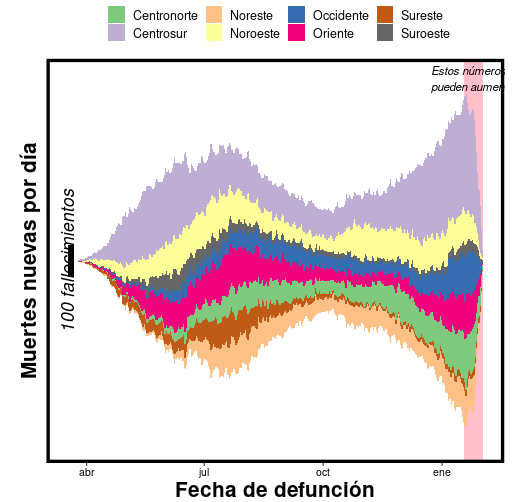
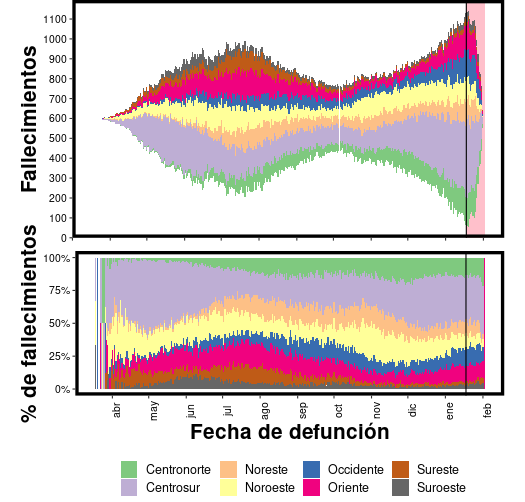
Texto y muertes por región

diff --git a/etiquetas/serie_tiempo/index.html b/etiquetas/serie_tiempo/index.html
@@ -478,8 +478,8 @@
           <div class="col-12 col-md-6 my-auto my-auto">
             <h3>La epidemia se mueve al interior del país</h3>
             <p class="lead">
-              <p>Esta gráfica muestra el número de fallecimientos confirmados por COVID-19 en el país que corresponden al <a href="../../municipios#vm_casos">Valle de México</a>, <a href="../../municipios#top_zm_casos">otras</a> <a href="../../municipios#top_zm_casos2">zonas</a> <a href="../../municipios#top_zm_casos3">metropolitanas</a>, y zonas no metropolitanas. Los fallecimientos empezaron a disminuir desde finales de julio, un par de semanas después de que los <a href="../../casos#sir">casos confirmados</a> empezaran a disminuir.</p>
-<p>La distribución geográfica de la epidemia ha <a href="../../muertes#muertes_region">cambiado con el tiempo</a>. El Valle de México concentró la mayor cantidad de fallecimientos al inicio de la epidemia que posteriormente se extendió al interior del país.</p>
+              <p>Esta gráfica muestra el número de fallecimientos confirmados por COVID-19 en el país que corresponden al <a href="../../municipios#vm_casos">Valle de México</a>, <a href="../../municipios#top_zm_casos">otras</a> <a href="../../municipios#top_zm_casos2">zonas</a> <a href="../../municipios#top_zm_casos3">metropolitanas</a>, y zonas no metropolitanas. Los fallecimientos continúan a la alza a nivel nacional.</p>
+<p>Al principio de la segunda "ola" la mayoría de los nuevos fallecimientos se concentraron en el Valle de México, y aunque las defunciones continúan aumentando, parecen hacerlo más lentamente en días recientes. Lamentablemente, las defunciones en otras zonas metropolitanas aumentan cada vez con mayor rapidez lo que mantiene la tendencia nacional. Probablemente veremos un cambio en la distribución geográfica de la epidemia en las próximas semanas al igual que ocurrió con la <a href="../../muertes#muertes_region">primera "ola"</a>.</p>
 <p>Los fallecimientos confirmados no son la unica consecuencia mortal de la epidemia. El <a href="../../muertes#exceso_mortalidad_nacional">exceso de mortalidad</a> puede usarse para medir las consecuencias directas e indirectas del COVID-19.</p>
             </p>
               
@@ -575,10 +575,10 @@
             />
           </div>
           <div class="col-12 col-md-6 my-auto my-auto">
-            <h3>La epidemia se desacelera en el Valle de México</h3>
+            <h3>El Valle de México sigue en un momento crítico</h3>
             <p class="lead">
               <p>La zona metropolitana del Valle de México ha sido por mucho la región más afectada del país, acumulando alrededor de un tercio de los casos confirmados. Esta gráfica muestra los casos de acuerdo la fecha en que mostraron síntomas. Debido a que los casos nuevos se detectan con un <a href="../../clinicos#tiempo_deteccion">retraso típico de 11 días</a>, sólo podemos estar razonablemente seguros del número de casos hace unas dos semanas</p>
-<p>El número de casos nuevos comenzó a estabilizarse alrededor del 15 de mayo, y parece haber empezado a descender en la segunda semana de junio. Por otro lado, los fallecimientos <a href="../../muertes#muertes_tipomun">se mantienen estables</a>. En conjunto esto sugiere que la epidemia ya no está creciendo en esta metrópolis, pero el riesgo sigue siendo de los más altos del país, y <a href="../../municipios#top_zm_casos">otras ciudades</a> han mostrado rebrotes.</p>
+<p>El número de casos se ha mostrado un ligero descenso en los últimos días, pero la tendencia a mediano plazo sigue siendo a la alza, mientras que las defunciones <a href="../../muertes#muertes_tipomun">continúan en aumento</a>. El riesgo sigue siendo de los más altos del país, y <a href="../../municipios#top_zm_casos">otras ciudades</a> han mostrado rebrotes.</p>
 <p>Otras <a href="../../municipios#top_zm_casos">zonas</a> <a href="../../municipios#top_zm_casos2">metropolitanas</a> <a href="../../municipios#top_zm_casos3">también</a> han sido afectadas</p>
             </p>
               
@@ -953,11 +953,11 @@ La <a href="../../estados#r_efectiva">R efectiva</a> en cada entidad.</p>
             />
           </div>
           <div class="col-12 col-md-6 my-auto my-auto">
-            <h3>Muertes confirmadas en México</h3>
+            <h3>La segunda ola es diferente</h3>
             <p class="lead">
-              <p>Esta gráfica muestra el número de defunciones confirmadas por COVID-19 en cada una de las ocho <a href="https://es.wikipedia.org/wiki/Anexo:Zonas_económicas_de_México" target="_blank">regiones geográficas</a> del país.</p>
-<p>Los fallecimientos se han distribuido a lo largo del país, pero las regiones Centrosur, Noroeste y Suroeste han sido las más golpeadas. Al igual que con los <a href="../../casos#nacional_sintomas">casos</a>, hay un <a href="../../clinicos#tiempo_deteccion">retraso</a> en la detección de fallecimientos así que es probable que los números en los días recientes aumenten.</p>
-<p>La gráfica muestra que, si bien la epidemia va en descenso, ésta se encuentra generalizada en todo el país. Esto significa que <a href="../../clinicos#riesgos_relativos">todos estamos en riesgo</a> y es consistente con el gran número de <a href="../../municipios#n_municipios">municipios que reportan casos</a>.</p>
+              <p>Cada <a href="https://es.wikipedia.org/wiki/Anexo:Zonas_económicas_de_México" target="_blank">región geográfica</a> del país ha sido afectada de manera diferente y en diferentes momentos.</p>
+<p>La primera "ola" inició en la zona Centrosur, que incluye al <a href="../../municipios#vm_casos">Valle de México</a>, y llegó relativamente tarde a las regiones Centronorte, Noreste y Occidente, pero estas regiones nunca lograron salir de esta primera "ola" antes de la segunda. Por otro lado las regiones Sureste y Suroeste fueron afectadas el verano pasado y, hasta el momento, no han sido afectadas tan gravemente por la segunda "ola", aunque esto siempre puede cambiar.</p>
+<p>De cualquier forma, está claro que hay un incremento generalizado en el número de defunciones a lo largo del país, y todavía no vemos señales de descenso.</p>
             </p>
               
           </div>

diff --git a/secciones/principal/index.html b/secciones/principal/index.html
@@ -432,8 +432,8 @@
           <div class="col-12 col-md-6 my-auto my-auto">
             <h3>La epidemia se mueve al interior del país</h3>
             <p class="lead">
-              <p>Esta gráfica muestra el número de fallecimientos confirmados por COVID-19 en el país que corresponden al <a href="../../municipios#vm_casos">Valle de México</a>, <a href="../../municipios#top_zm_casos">otras</a> <a href="../../municipios#top_zm_casos2">zonas</a> <a href="../../municipios#top_zm_casos3">metropolitanas</a>, y zonas no metropolitanas. Los fallecimientos empezaron a disminuir desde finales de julio, un par de semanas después de que los <a href="../../casos#sir">casos confirmados</a> empezaran a disminuir.</p>
-<p>La distribución geográfica de la epidemia ha <a href="../../muertes#muertes_region">cambiado con el tiempo</a>. El Valle de México concentró la mayor cantidad de fallecimientos al inicio de la epidemia que posteriormente se extendió al interior del país.</p>
+              <p>Esta gráfica muestra el número de fallecimientos confirmados por COVID-19 en el país que corresponden al <a href="../../municipios#vm_casos">Valle de México</a>, <a href="../../municipios#top_zm_casos">otras</a> <a href="../../municipios#top_zm_casos2">zonas</a> <a href="../../municipios#top_zm_casos3">metropolitanas</a>, y zonas no metropolitanas. Los fallecimientos continúan a la alza a nivel nacional.</p>
+<p>Al principio de la segunda "ola" la mayoría de los nuevos fallecimientos se concentraron en el Valle de México, y aunque las defunciones continúan aumentando, parecen hacerlo más lentamente en días recientes. Lamentablemente, las defunciones en otras zonas metropolitanas aumentan cada vez con mayor rapidez lo que mantiene la tendencia nacional. Probablemente veremos un cambio en la distribución geográfica de la epidemia en las próximas semanas al igual que ocurrió con la <a href="../../muertes#muertes_region">primera "ola"</a>.</p>
 <p>Los fallecimientos confirmados no son la unica consecuencia mortal de la epidemia. El <a href="../../muertes#exceso_mortalidad_nacional">exceso de mortalidad</a> puede usarse para medir las consecuencias directas e indirectas del COVID-19.</p>
             </p>
               
@@ -557,11 +557,11 @@ La <a href="../../estados#r_efectiva">R efectiva</a> en cada entidad.</p>
             />
           </div>
           <div class="col-12 col-md-6 my-auto my-auto">
-            <h3>Muertes confirmadas en México</h3>
+            <h3>La segunda ola es diferente</h3>
             <p class="lead">
-              <p>Esta gráfica muestra el número de defunciones confirmadas por COVID-19 en cada una de las ocho <a href="https://es.wikipedia.org/wiki/Anexo:Zonas_económicas_de_México" target="_blank">regiones geográficas</a> del país.</p>
-<p>Los fallecimientos se han distribuido a lo largo del país, pero las regiones Centrosur, Noroeste y Suroeste han sido las más golpeadas. Al igual que con los <a href="../../casos#nacional_sintomas">casos</a>, hay un <a href="../../clinicos#tiempo_deteccion">retraso</a> en la detección de fallecimientos así que es probable que los números en los días recientes aumenten.</p>
-<p>La gráfica muestra que, si bien la epidemia va en descenso, ésta se encuentra generalizada en todo el país. Esto significa que <a href="../../clinicos#riesgos_relativos">todos estamos en riesgo</a> y es consistente con el gran número de <a href="../../municipios#n_municipios">municipios que reportan casos</a>.</p>
+              <p>Cada <a href="https://es.wikipedia.org/wiki/Anexo:Zonas_económicas_de_México" target="_blank">región geográfica</a> del país ha sido afectada de manera diferente y en diferentes momentos.</p>
+<p>La primera "ola" inició en la zona Centrosur, que incluye al <a href="../../municipios#vm_casos">Valle de México</a>, y llegó relativamente tarde a las regiones Centronorte, Noreste y Occidente, pero estas regiones nunca lograron salir de esta primera "ola" antes de la segunda. Por otro lado las regiones Sureste y Suroeste fueron afectadas el verano pasado y, hasta el momento, no han sido afectadas tan gravemente por la segunda "ola", aunque esto siempre puede cambiar.</p>
+<p>De cualquier forma, está claro que hay un incremento generalizado en el número de defunciones a lo largo del país, y todavía no vemos señales de descenso.</p>
             </p>
               
           </div>

diff --git a/etiquetas/muertes/index.html b/etiquetas/muertes/index.html
@@ -431,8 +431,8 @@
           <div class="col-12 col-md-6 my-auto my-auto">
             <h3>La epidemia se mueve al interior del país</h3>
             <p class="lead">
-              <p>Esta gráfica muestra el número de fallecimientos confirmados por COVID-19 en el país que corresponden al <a href="../../municipios#vm_casos">Valle de México</a>, <a href="../../municipios#top_zm_casos">otras</a> <a href="../../municipios#top_zm_casos2">zonas</a> <a href="../../municipios#top_zm_casos3">metropolitanas</a>, y zonas no metropolitanas. Los fallecimientos empezaron a disminuir desde finales de julio, un par de semanas después de que los <a href="../../casos#sir">casos confirmados</a> empezaran a disminuir.</p>
-<p>La distribución geográfica de la epidemia ha <a href="../../muertes#muertes_region">cambiado con el tiempo</a>. El Valle de México concentró la mayor cantidad de fallecimientos al inicio de la epidemia que posteriormente se extendió al interior del país.</p>
+              <p>Esta gráfica muestra el número de fallecimientos confirmados por COVID-19 en el país que corresponden al <a href="../../municipios#vm_casos">Valle de México</a>, <a href="../../municipios#top_zm_casos">otras</a> <a href="../../municipios#top_zm_casos2">zonas</a> <a href="../../municipios#top_zm_casos3">metropolitanas</a>, y zonas no metropolitanas. Los fallecimientos continúan a la alza a nivel nacional.</p>
+<p>Al principio de la segunda "ola" la mayoría de los nuevos fallecimientos se concentraron en el Valle de México, y aunque las defunciones continúan aumentando, parecen hacerlo más lentamente en días recientes. Lamentablemente, las defunciones en otras zonas metropolitanas aumentan cada vez con mayor rapidez lo que mantiene la tendencia nacional. Probablemente veremos un cambio en la distribución geográfica de la epidemia en las próximas semanas al igual que ocurrió con la <a href="../../muertes#muertes_region">primera "ola"</a>.</p>
 <p>Los fallecimientos confirmados no son la unica consecuencia mortal de la epidemia. El <a href="../../muertes#exceso_mortalidad_nacional">exceso de mortalidad</a> puede usarse para medir las consecuencias directas e indirectas del COVID-19.</p>
             </p>
               
@@ -579,11 +579,11 @@
             />
           </div>
           <div class="col-12 col-md-6 my-auto my-auto">
-            <h3>Muertes confirmadas en México</h3>
+            <h3>La segunda ola es diferente</h3>
             <p class="lead">
-              <p>Esta gráfica muestra el número de defunciones confirmadas por COVID-19 en cada una de las ocho <a href="https://es.wikipedia.org/wiki/Anexo:Zonas_económicas_de_México" target="_blank">regiones geográficas</a> del país.</p>
-<p>Los fallecimientos se han distribuido a lo largo del país, pero las regiones Centrosur, Noroeste y Suroeste han sido las más golpeadas. Al igual que con los <a href="../../casos#nacional_sintomas">casos</a>, hay un <a href="../../clinicos#tiempo_deteccion">retraso</a> en la detección de fallecimientos así que es probable que los números en los días recientes aumenten.</p>
-<p>La gráfica muestra que, si bien la epidemia va en descenso, ésta se encuentra generalizada en todo el país. Esto significa que <a href="../../clinicos#riesgos_relativos">todos estamos en riesgo</a> y es consistente con el gran número de <a href="../../municipios#n_municipios">municipios que reportan casos</a>.</p>
+              <p>Cada <a href="https://es.wikipedia.org/wiki/Anexo:Zonas_económicas_de_México" target="_blank">región geográfica</a> del país ha sido afectada de manera diferente y en diferentes momentos.</p>
+<p>La primera "ola" inició en la zona Centrosur, que incluye al <a href="../../municipios#vm_casos">Valle de México</a>, y llegó relativamente tarde a las regiones Centronorte, Noreste y Occidente, pero estas regiones nunca lograron salir de esta primera "ola" antes de la segunda. Por otro lado las regiones Sureste y Suroeste fueron afectadas el verano pasado y, hasta el momento, no han sido afectadas tan gravemente por la segunda "ola", aunque esto siempre puede cambiar.</p>
+<p>De cualquier forma, está claro que hay un incremento generalizado en el número de defunciones a lo largo del país, y todavía no vemos señales de descenso.</p>
             </p>
               
           </div>

diff --git a/etiquetas/nacional/index.html b/etiquetas/nacional/index.html
@@ -649,8 +649,8 @@
           <div class="col-12 col-md-6 my-auto my-auto">
             <h3>La epidemia se mueve al interior del país</h3>
             <p class="lead">
-              <p>Esta gráfica muestra el número de fallecimientos confirmados por COVID-19 en el país que corresponden al <a href="../../municipios#vm_casos">Valle de México</a>, <a href="../../municipios#top_zm_casos">otras</a> <a href="../../municipios#top_zm_casos2">zonas</a> <a href="../../municipios#top_zm_casos3">metropolitanas</a>, y zonas no metropolitanas. Los fallecimientos empezaron a disminuir desde finales de julio, un par de semanas después de que los <a href="../../casos#sir">casos confirmados</a> empezaran a disminuir.</p>
-<p>La distribución geográfica de la epidemia ha <a href="../../muertes#muertes_region">cambiado con el tiempo</a>. El Valle de México concentró la mayor cantidad de fallecimientos al inicio de la epidemia que posteriormente se extendió al interior del país.</p>
+              <p>Esta gráfica muestra el número de fallecimientos confirmados por COVID-19 en el país que corresponden al <a href="../../municipios#vm_casos">Valle de México</a>, <a href="../../municipios#top_zm_casos">otras</a> <a href="../../municipios#top_zm_casos2">zonas</a> <a href="../../municipios#top_zm_casos3">metropolitanas</a>, y zonas no metropolitanas. Los fallecimientos continúan a la alza a nivel nacional.</p>
+<p>Al principio de la segunda "ola" la mayoría de los nuevos fallecimientos se concentraron en el Valle de México, y aunque las defunciones continúan aumentando, parecen hacerlo más lentamente en días recientes. Lamentablemente, las defunciones en otras zonas metropolitanas aumentan cada vez con mayor rapidez lo que mantiene la tendencia nacional. Probablemente veremos un cambio en la distribución geográfica de la epidemia en las próximas semanas al igual que ocurrió con la <a href="../../muertes#muertes_region">primera "ola"</a>.</p>
 <p>Los fallecimientos confirmados no son la unica consecuencia mortal de la epidemia. El <a href="../../muertes#exceso_mortalidad_nacional">exceso de mortalidad</a> puede usarse para medir las consecuencias directas e indirectas del COVID-19.</p>
             </p>
               
@@ -870,11 +870,11 @@
             />
           </div>
           <div class="col-12 col-md-6 my-auto my-auto">
-            <h3>Muertes confirmadas en México</h3>
+            <h3>La segunda ola es diferente</h3>
             <p class="lead">
-              <p>Esta gráfica muestra el número de defunciones confirmadas por COVID-19 en cada una de las ocho <a href="https://es.wikipedia.org/wiki/Anexo:Zonas_económicas_de_México" target="_blank">regiones geográficas</a> del país.</p>
-<p>Los fallecimientos se han distribuido a lo largo del país, pero las regiones Centrosur, Noroeste y Suroeste han sido las más golpeadas. Al igual que con los <a href="../../casos#nacional_sintomas">casos</a>, hay un <a href="../../clinicos#tiempo_deteccion">retraso</a> en la detección de fallecimientos así que es probable que los números en los días recientes aumenten.</p>
-<p>La gráfica muestra que, si bien la epidemia va en descenso, ésta se encuentra generalizada en todo el país. Esto significa que <a href="../../clinicos#riesgos_relativos">todos estamos en riesgo</a> y es consistente con el gran número de <a href="../../municipios#n_municipios">municipios que reportan casos</a>.</p>
+              <p>Cada <a href="https://es.wikipedia.org/wiki/Anexo:Zonas_económicas_de_México" target="_blank">región geográfica</a> del país ha sido afectada de manera diferente y en diferentes momentos.</p>
+<p>La primera "ola" inició en la zona Centrosur, que incluye al <a href="../../municipios#vm_casos">Valle de México</a>, y llegó relativamente tarde a las regiones Centronorte, Noreste y Occidente, pero estas regiones nunca lograron salir de esta primera "ola" antes de la segunda. Por otro lado las regiones Sureste y Suroeste fueron afectadas el verano pasado y, hasta el momento, no han sido afectadas tan gravemente por la segunda "ola", aunque esto siempre puede cambiar.</p>
+<p>De cualquier forma, está claro que hay un incremento generalizado en el número de defunciones a lo largo del país, y todavía no vemos señales de descenso.</p>
             </p>
               
           </div>

diff --git a/secciones/muertes/index.html b/secciones/muertes/index.html
@@ -357,8 +357,8 @@
           <div class="col-12 col-md-6 my-auto my-auto">
             <h3>La epidemia se mueve al interior del país</h3>
             <p class="lead">
-              <p>Esta gráfica muestra el número de fallecimientos confirmados por COVID-19 en el país que corresponden al <a href="../../municipios#vm_casos">Valle de México</a>, <a href="../../municipios#top_zm_casos">otras</a> <a href="../../municipios#top_zm_casos2">zonas</a> <a href="../../municipios#top_zm_casos3">metropolitanas</a>, y zonas no metropolitanas. Los fallecimientos empezaron a disminuir desde finales de julio, un par de semanas después de que los <a href="../../casos#sir">casos confirmados</a> empezaran a disminuir.</p>
-<p>La distribución geográfica de la epidemia ha <a href="../../muertes#muertes_region">cambiado con el tiempo</a>. El Valle de México concentró la mayor cantidad de fallecimientos al inicio de la epidemia que posteriormente se extendió al interior del país.</p>
+              <p>Esta gráfica muestra el número de fallecimientos confirmados por COVID-19 en el país que corresponden al <a href="../../municipios#vm_casos">Valle de México</a>, <a href="../../municipios#top_zm_casos">otras</a> <a href="../../municipios#top_zm_casos2">zonas</a> <a href="../../municipios#top_zm_casos3">metropolitanas</a>, y zonas no metropolitanas. Los fallecimientos continúan a la alza a nivel nacional.</p>
+<p>Al principio de la segunda "ola" la mayoría de los nuevos fallecimientos se concentraron en el Valle de México, y aunque las defunciones continúan aumentando, parecen hacerlo más lentamente en días recientes. Lamentablemente, las defunciones en otras zonas metropolitanas aumentan cada vez con mayor rapidez lo que mantiene la tendencia nacional. Probablemente veremos un cambio en la distribución geográfica de la epidemia en las próximas semanas al igual que ocurrió con la <a href="../../muertes#muertes_region">primera "ola"</a>.</p>
 <p>Los fallecimientos confirmados no son la unica consecuencia mortal de la epidemia. El <a href="../../muertes#exceso_mortalidad_nacional">exceso de mortalidad</a> puede usarse para medir las consecuencias directas e indirectas del COVID-19.</p>
             </p>
               
@@ -505,11 +505,11 @@
             />
           </div>
           <div class="col-12 col-md-6 my-auto my-auto">
-            <h3>Muertes confirmadas en México</h3>
+            <h3>La segunda ola es diferente</h3>
             <p class="lead">
-              <p>Esta gráfica muestra el número de defunciones confirmadas por COVID-19 en cada una de las ocho <a href="https://es.wikipedia.org/wiki/Anexo:Zonas_económicas_de_México" target="_blank">regiones geográficas</a> del país.</p>
-<p>Los fallecimientos se han distribuido a lo largo del país, pero las regiones Centrosur, Noroeste y Suroeste han sido las más golpeadas. Al igual que con los <a href="../../casos#nacional_sintomas">casos</a>, hay un <a href="../../clinicos#tiempo_deteccion">retraso</a> en la detección de fallecimientos así que es probable que los números en los días recientes aumenten.</p>
-<p>La gráfica muestra que, si bien la epidemia va en descenso, ésta se encuentra generalizada en todo el país. Esto significa que <a href="../../clinicos#riesgos_relativos">todos estamos en riesgo</a> y es consistente con el gran número de <a href="../../municipios#n_municipios">municipios que reportan casos</a>.</p>
+              <p>Cada <a href="https://es.wikipedia.org/wiki/Anexo:Zonas_económicas_de_México" target="_blank">región geográfica</a> del país ha sido afectada de manera diferente y en diferentes momentos.</p>
+<p>La primera "ola" inició en la zona Centrosur, que incluye al <a href="../../municipios#vm_casos">Valle de México</a>, y llegó relativamente tarde a las regiones Centronorte, Noreste y Occidente, pero estas regiones nunca lograron salir de esta primera "ola" antes de la segunda. Por otro lado las regiones Sureste y Suroeste fueron afectadas el verano pasado y, hasta el momento, no han sido afectadas tan gravemente por la segunda "ola", aunque esto siempre puede cambiar.</p>
+<p>De cualquier forma, está claro que hay un incremento generalizado en el número de defunciones a lo largo del país, y todavía no vemos señales de descenso.</p>
             </p>
               
           </div>

diff --git a/muertes/index.html b/muertes/index.html
@@ -334,8 +334,8 @@
           <div class="col-12 col-md-6 my-auto my-auto">
             <h3>La epidemia se mueve al interior del país</h3>
             <p class="lead">
-              <p>Esta gráfica muestra el número de fallecimientos confirmados por COVID-19 en el país que corresponden al <a href="../municipios#vm_casos">Valle de México</a>, <a href="../municipios#top_zm_casos">otras</a> <a href="../municipios#top_zm_casos2">zonas</a> <a href="../municipios#top_zm_casos3">metropolitanas</a>, y zonas no metropolitanas. Los fallecimientos empezaron a disminuir desde finales de julio, un par de semanas después de que los <a href="../casos#sir">casos confirmados</a> empezaran a disminuir.</p>
-<p>La distribución geográfica de la epidemia ha <a href="../muertes#muertes_region">cambiado con el tiempo</a>. El Valle de México concentró la mayor cantidad de fallecimientos al inicio de la epidemia que posteriormente se extendió al interior del país.</p>
+              <p>Esta gráfica muestra el número de fallecimientos confirmados por COVID-19 en el país que corresponden al <a href="../municipios#vm_casos">Valle de México</a>, <a href="../municipios#top_zm_casos">otras</a> <a href="../municipios#top_zm_casos2">zonas</a> <a href="../municipios#top_zm_casos3">metropolitanas</a>, y zonas no metropolitanas. Los fallecimientos continúan a la alza a nivel nacional.</p>
+<p>Al principio de la segunda "ola" la mayoría de los nuevos fallecimientos se concentraron en el Valle de México, y aunque las defunciones continúan aumentando, parecen hacerlo más lentamente en días recientes. Lamentablemente, las defunciones en otras zonas metropolitanas aumentan cada vez con mayor rapidez lo que mantiene la tendencia nacional. Probablemente veremos un cambio en la distribución geográfica de la epidemia en las próximas semanas al igual que ocurrió con la <a href="../muertes#muertes_region">primera "ola"</a>.</p>
 <p>Los fallecimientos confirmados no son la unica consecuencia mortal de la epidemia. El <a href="../muertes#exceso_mortalidad_nacional">exceso de mortalidad</a> puede usarse para medir las consecuencias directas e indirectas del COVID-19.</p>
             </p>
               
@@ -482,11 +482,11 @@
             />
           </div>
           <div class="col-12 col-md-6 my-auto my-auto">
-            <h3>Muertes confirmadas en México</h3>
+            <h3>La segunda ola es diferente</h3>
             <p class="lead">
-              <p>Esta gráfica muestra el número de defunciones confirmadas por COVID-19 en cada una de las ocho <a href="https://es.wikipedia.org/wiki/Anexo:Zonas_económicas_de_México" target="_blank">regiones geográficas</a> del país.</p>
-<p>Los fallecimientos se han distribuido a lo largo del país, pero las regiones Centrosur, Noroeste y Suroeste han sido las más golpeadas. Al igual que con los <a href="../casos#nacional_sintomas">casos</a>, hay un <a href="../clinicos#tiempo_deteccion">retraso</a> en la detección de fallecimientos así que es probable que los números en los días recientes aumenten.</p>
-<p>La gráfica muestra que, si bien la epidemia va en descenso, ésta se encuentra generalizada en todo el país. Esto significa que <a href="../clinicos#riesgos_relativos">todos estamos en riesgo</a> y es consistente con el gran número de <a href="../municipios#n_municipios">municipios que reportan casos</a>.</p>
+              <p>Cada <a href="https://es.wikipedia.org/wiki/Anexo:Zonas_económicas_de_México" target="_blank">región geográfica</a> del país ha sido afectada de manera diferente y en diferentes momentos.</p>
+<p>La primera "ola" inició en la zona Centrosur, que incluye al <a href="../municipios#vm_casos">Valle de México</a>, y llegó relativamente tarde a las regiones Centronorte, Noreste y Occidente, pero estas regiones nunca lograron salir de esta primera "ola" antes de la segunda. Por otro lado las regiones Sureste y Suroeste fueron afectadas el verano pasado y, hasta el momento, no han sido afectadas tan gravemente por la segunda "ola", aunque esto siempre puede cambiar.</p>
+<p>De cualquier forma, está claro que hay un incremento generalizado en el número de defunciones a lo largo del país, y todavía no vemos señales de descenso.</p>
             </p>
               
           </div>

diff --git a/etiquetas/zona_metropolitana/index.html b/etiquetas/zona_metropolitana/index.html
@@ -334,8 +334,8 @@
           <div class="col-12 col-md-6 my-auto my-auto">
             <h3>La epidemia se mueve al interior del país</h3>
             <p class="lead">
-              <p>Esta gráfica muestra el número de fallecimientos confirmados por COVID-19 en el país que corresponden al <a href="../../municipios#vm_casos">Valle de México</a>, <a href="../../municipios#top_zm_casos">otras</a> <a href="../../municipios#top_zm_casos2">zonas</a> <a href="../../municipios#top_zm_casos3">metropolitanas</a>, y zonas no metropolitanas. Los fallecimientos empezaron a disminuir desde finales de julio, un par de semanas después de que los <a href="../../casos#sir">casos confirmados</a> empezaran a disminuir.</p>
-<p>La distribución geográfica de la epidemia ha <a href="../../muertes#muertes_region">cambiado con el tiempo</a>. El Valle de México concentró la mayor cantidad de fallecimientos al inicio de la epidemia que posteriormente se extendió al interior del país.</p>
+              <p>Esta gráfica muestra el número de fallecimientos confirmados por COVID-19 en el país que corresponden al <a href="../../municipios#vm_casos">Valle de México</a>, <a href="../../municipios#top_zm_casos">otras</a> <a href="../../municipios#top_zm_casos2">zonas</a> <a href="../../municipios#top_zm_casos3">metropolitanas</a>, y zonas no metropolitanas. Los fallecimientos continúan a la alza a nivel nacional.</p>
+<p>Al principio de la segunda "ola" la mayoría de los nuevos fallecimientos se concentraron en el Valle de México, y aunque las defunciones continúan aumentando, parecen hacerlo más lentamente en días recientes. Lamentablemente, las defunciones en otras zonas metropolitanas aumentan cada vez con mayor rapidez lo que mantiene la tendencia nacional. Probablemente veremos un cambio en la distribución geográfica de la epidemia en las próximas semanas al igual que ocurrió con la <a href="../../muertes#muertes_region">primera "ola"</a>.</p>
 <p>Los fallecimientos confirmados no son la unica consecuencia mortal de la epidemia. El <a href="../../muertes#exceso_mortalidad_nacional">exceso de mortalidad</a> puede usarse para medir las consecuencias directas e indirectas del COVID-19.</p>
             </p>
               
@@ -357,10 +357,10 @@
             />
           </div>
           <div class="col-12 col-md-6 my-auto my-auto">
-            <h3>La epidemia se desacelera en el Valle de México</h3>
+            <h3>El Valle de México sigue en un momento crítico</h3>
             <p class="lead">
               <p>La zona metropolitana del Valle de México ha sido por mucho la región más afectada del país, acumulando alrededor de un tercio de los casos confirmados. Esta gráfica muestra los casos de acuerdo la fecha en que mostraron síntomas. Debido a que los casos nuevos se detectan con un <a href="../../clinicos#tiempo_deteccion">retraso típico de 11 días</a>, sólo podemos estar razonablemente seguros del número de casos hace unas dos semanas</p>
-<p>El número de casos nuevos comenzó a estabilizarse alrededor del 15 de mayo, y parece haber empezado a descender en la segunda semana de junio. Por otro lado, los fallecimientos <a href="../../muertes#muertes_tipomun">se mantienen estables</a>. En conjunto esto sugiere que la epidemia ya no está creciendo en esta metrópolis, pero el riesgo sigue siendo de los más altos del país, y <a href="../../municipios#top_zm_casos">otras ciudades</a> han mostrado rebrotes.</p>
+<p>El número de casos se ha mostrado un ligero descenso en los últimos días, pero la tendencia a mediano plazo sigue siendo a la alza, mientras que las defunciones <a href="../../muertes#muertes_tipomun">continúan en aumento</a>. El riesgo sigue siendo de los más altos del país, y <a href="../../municipios#top_zm_casos">otras ciudades</a> han mostrado rebrotes.</p>
 <p>Otras <a href="../../municipios#top_zm_casos">zonas</a> <a href="../../municipios#top_zm_casos2">metropolitanas</a> <a href="../../municipios#top_zm_casos3">también</a> han sido afectadas</p>
             </p>
               

diff --git a/index.html b/index.html
@@ -391,8 +391,8 @@
           <div class="col-12 col-md-6 my-auto my-auto">
             <h3>La epidemia se mueve al interior del país</h3>
             <p class="lead">
-              <p>Esta gráfica muestra el número de fallecimientos confirmados por COVID-19 en el país que corresponden al <a href="./municipios#vm_casos">Valle de México</a>, <a href="./municipios#top_zm_casos">otras</a> <a href="./municipios#top_zm_casos2">zonas</a> <a href="./municipios#top_zm_casos3">metropolitanas</a>, y zonas no metropolitanas. Los fallecimientos empezaron a disminuir desde finales de julio, un par de semanas después de que los <a href="./casos#sir">casos confirmados</a> empezaran a disminuir.</p>
-<p>La distribución geográfica de la epidemia ha <a href="./muertes#muertes_region">cambiado con el tiempo</a>. El Valle de México concentró la mayor cantidad de fallecimientos al inicio de la epidemia que posteriormente se extendió al interior del país.</p>
+              <p>Esta gráfica muestra el número de fallecimientos confirmados por COVID-19 en el país que corresponden al <a href="./municipios#vm_casos">Valle de México</a>, <a href="./municipios#top_zm_casos">otras</a> <a href="./municipios#top_zm_casos2">zonas</a> <a href="./municipios#top_zm_casos3">metropolitanas</a>, y zonas no metropolitanas. Los fallecimientos continúan a la alza a nivel nacional.</p>
+<p>Al principio de la segunda "ola" la mayoría de los nuevos fallecimientos se concentraron en el Valle de México, y aunque las defunciones continúan aumentando, parecen hacerlo más lentamente en días recientes. Lamentablemente, las defunciones en otras zonas metropolitanas aumentan cada vez con mayor rapidez lo que mantiene la tendencia nacional. Probablemente veremos un cambio en la distribución geográfica de la epidemia en las próximas semanas al igual que ocurrió con la <a href="./muertes#muertes_region">primera "ola"</a>.</p>
 <p>Los fallecimientos confirmados no son la unica consecuencia mortal de la epidemia. El <a href="./muertes#exceso_mortalidad_nacional">exceso de mortalidad</a> puede usarse para medir las consecuencias directas e indirectas del COVID-19.</p>
             </p>
               
@@ -463,10 +463,10 @@
             />
           </div>
           <div class="col-12 col-md-6 my-auto my-auto">
-            <h3>La epidemia se desacelera en el Valle de México</h3>
+            <h3>El Valle de México sigue en un momento crítico</h3>
             <p class="lead">
               <p>La zona metropolitana del Valle de México ha sido por mucho la región más afectada del país, acumulando alrededor de un tercio de los casos confirmados. Esta gráfica muestra los casos de acuerdo la fecha en que mostraron síntomas. Debido a que los casos nuevos se detectan con un <a href="./clinicos#tiempo_deteccion">retraso típico de 11 días</a>, sólo podemos estar razonablemente seguros del número de casos hace unas dos semanas</p>
-<p>El número de casos nuevos comenzó a estabilizarse alrededor del 15 de mayo, y parece haber empezado a descender en la segunda semana de junio. Por otro lado, los fallecimientos <a href="./muertes#muertes_tipomun">se mantienen estables</a>. En conjunto esto sugiere que la epidemia ya no está creciendo en esta metrópolis, pero el riesgo sigue siendo de los más altos del país, y <a href="./municipios#top_zm_casos">otras ciudades</a> han mostrado rebrotes.</p>
+<p>El número de casos se ha mostrado un ligero descenso en los últimos días, pero la tendencia a mediano plazo sigue siendo a la alza, mientras que las defunciones <a href="./muertes#muertes_tipomun">continúan en aumento</a>. El riesgo sigue siendo de los más altos del país, y <a href="./municipios#top_zm_casos">otras ciudades</a> han mostrado rebrotes.</p>
 <p>Otras <a href="./municipios#top_zm_casos">zonas</a> <a href="./municipios#top_zm_casos2">metropolitanas</a> <a href="./municipios#top_zm_casos3">también</a> han sido afectadas</p>
             </p>
               

diff --git a/muertes/muertes_tipomun/index.html b/muertes/muertes_tipomun/index.html
@@ -327,8 +327,8 @@
         <div class="col-12 col-md-6 my-auto my-auto">
           <h2>La epidemia se mueve al interior del país</h2>
           <p class="lead">
-            <p>Esta gráfica muestra el número de fallecimientos confirmados por COVID-19 en el país que corresponden al <a href="../../municipios#vm_casos">Valle de México</a>, <a href="../../municipios#top_zm_casos">otras</a> <a href="../../municipios#top_zm_casos2">zonas</a> <a href="../../municipios#top_zm_casos3">metropolitanas</a>, y zonas no metropolitanas. Los fallecimientos empezaron a disminuir desde finales de julio, un par de semanas después de que los <a href="../../casos#sir">casos confirmados</a> empezaran a disminuir.</p>
-<p>La distribución geográfica de la epidemia ha <a href="../../muertes#muertes_region">cambiado con el tiempo</a>. El Valle de México concentró la mayor cantidad de fallecimientos al inicio de la epidemia que posteriormente se extendió al interior del país.</p>
+            <p>Esta gráfica muestra el número de fallecimientos confirmados por COVID-19 en el país que corresponden al <a href="../../municipios#vm_casos">Valle de México</a>, <a href="../../municipios#top_zm_casos">otras</a> <a href="../../municipios#top_zm_casos2">zonas</a> <a href="../../municipios#top_zm_casos3">metropolitanas</a>, y zonas no metropolitanas. Los fallecimientos continúan a la alza a nivel nacional.</p>
+<p>Al principio de la segunda "ola" la mayoría de los nuevos fallecimientos se concentraron en el Valle de México, y aunque las defunciones continúan aumentando, parecen hacerlo más lentamente en días recientes. Lamentablemente, las defunciones en otras zonas metropolitanas aumentan cada vez con mayor rapidez lo que mantiene la tendencia nacional. Probablemente veremos un cambio en la distribución geográfica de la epidemia en las próximas semanas al igual que ocurrió con la <a href="../../muertes#muertes_region">primera "ola"</a>.</p>
 <p>Los fallecimientos confirmados no son la unica consecuencia mortal de la epidemia. El <a href="../../muertes#exceso_mortalidad_nacional">exceso de mortalidad</a> puede usarse para medir las consecuencias directas e indirectas del COVID-19.</p>
           </p>
             

diff --git a/muertes/muertes_region/index.html b/muertes/muertes_region/index.html
@@ -325,11 +325,11 @@
           />
         </div>
         <div class="col-12 col-md-6 my-auto my-auto">
-          <h2>Muertes confirmadas en México</h2>
+          <h2>La segunda ola es diferente</h2>
           <p class="lead">
-            <p>Esta gráfica muestra el número de defunciones confirmadas por COVID-19 en cada una de las ocho <a href="https://es.wikipedia.org/wiki/Anexo:Zonas_económicas_de_México" target="_blank">regiones geográficas</a> del país.</p>
-<p>Los fallecimientos se han distribuido a lo largo del país, pero las regiones Centrosur, Noroeste y Suroeste han sido las más golpeadas. Al igual que con los <a href="../../casos#nacional_sintomas">casos</a>, hay un <a href="../../clinicos#tiempo_deteccion">retraso</a> en la detección de fallecimientos así que es probable que los números en los días recientes aumenten.</p>
-<p>La gráfica muestra que, si bien la epidemia va en descenso, ésta se encuentra generalizada en todo el país. Esto significa que <a href="../../clinicos#riesgos_relativos">todos estamos en riesgo</a> y es consistente con el gran número de <a href="../../municipios#n_municipios">municipios que reportan casos</a>.</p>
+            <p>Cada <a href="https://es.wikipedia.org/wiki/Anexo:Zonas_económicas_de_México" target="_blank">región geográfica</a> del país ha sido afectada de manera diferente y en diferentes momentos.</p>
+<p>La primera "ola" inició en la zona Centrosur, que incluye al <a href="../../municipios#vm_casos">Valle de México</a>, y llegó relativamente tarde a las regiones Centronorte, Noreste y Occidente, pero estas regiones nunca lograron salir de esta primera "ola" antes de la segunda. Por otro lado las regiones Sureste y Suroeste fueron afectadas el verano pasado y, hasta el momento, no han sido afectadas tan gravemente por la segunda "ola", aunque esto siempre puede cambiar.</p>
+<p>De cualquier forma, está claro que hay un incremento generalizado en el número de defunciones a lo largo del país, y todavía no vemos señales de descenso.</p>
           </p>
             
         </div>

diff --git a/etiquetas/casos/index.html b/etiquetas/casos/index.html
@@ -624,10 +624,10 @@
             />
           </div>
           <div class="col-12 col-md-6 my-auto my-auto">
-            <h3>La epidemia se desacelera en el Valle de México</h3>
+            <h3>El Valle de México sigue en un momento crítico</h3>
             <p class="lead">
               <p>La zona metropolitana del Valle de México ha sido por mucho la región más afectada del país, acumulando alrededor de un tercio de los casos confirmados. Esta gráfica muestra los casos de acuerdo la fecha en que mostraron síntomas. Debido a que los casos nuevos se detectan con un <a href="../../clinicos#tiempo_deteccion">retraso típico de 11 días</a>, sólo podemos estar razonablemente seguros del número de casos hace unas dos semanas</p>
-<p>El número de casos nuevos comenzó a estabilizarse alrededor del 15 de mayo, y parece haber empezado a descender en la segunda semana de junio. Por otro lado, los fallecimientos <a href="../../muertes#muertes_tipomun">se mantienen estables</a>. En conjunto esto sugiere que la epidemia ya no está creciendo en esta metrópolis, pero el riesgo sigue siendo de los más altos del país, y <a href="../../municipios#top_zm_casos">otras ciudades</a> han mostrado rebrotes.</p>
+<p>El número de casos se ha mostrado un ligero descenso en los últimos días, pero la tendencia a mediano plazo sigue siendo a la alza, mientras que las defunciones <a href="../../muertes#muertes_tipomun">continúan en aumento</a>. El riesgo sigue siendo de los más altos del país, y <a href="../../municipios#top_zm_casos">otras ciudades</a> han mostrado rebrotes.</p>
 <p>Otras <a href="../../municipios#top_zm_casos">zonas</a> <a href="../../municipios#top_zm_casos2">metropolitanas</a> <a href="../../municipios#top_zm_casos3">también</a> han sido afectadas</p>
             </p>
               

diff --git a/etiquetas/municipios/index.html b/etiquetas/municipios/index.html
@@ -380,10 +380,10 @@
             />
           </div>
           <div class="col-12 col-md-6 my-auto my-auto">
-            <h3>La epidemia se desacelera en el Valle de México</h3>
+            <h3>El Valle de México sigue en un momento crítico</h3>
             <p class="lead">
               <p>La zona metropolitana del Valle de México ha sido por mucho la región más afectada del país, acumulando alrededor de un tercio de los casos confirmados. Esta gráfica muestra los casos de acuerdo la fecha en que mostraron síntomas. Debido a que los casos nuevos se detectan con un <a href="../../clinicos#tiempo_deteccion">retraso típico de 11 días</a>, sólo podemos estar razonablemente seguros del número de casos hace unas dos semanas</p>
-<p>El número de casos nuevos comenzó a estabilizarse alrededor del 15 de mayo, y parece haber empezado a descender en la segunda semana de junio. Por otro lado, los fallecimientos <a href="../../muertes#muertes_tipomun">se mantienen estables</a>. En conjunto esto sugiere que la epidemia ya no está creciendo en esta metrópolis, pero el riesgo sigue siendo de los más altos del país, y <a href="../../municipios#top_zm_casos">otras ciudades</a> han mostrado rebrotes.</p>
+<p>El número de casos se ha mostrado un ligero descenso en los últimos días, pero la tendencia a mediano plazo sigue siendo a la alza, mientras que las defunciones <a href="../../muertes#muertes_tipomun">continúan en aumento</a>. El riesgo sigue siendo de los más altos del país, y <a href="../../municipios#top_zm_casos">otras ciudades</a> han mostrado rebrotes.</p>
 <p>Otras <a href="../../municipios#top_zm_casos">zonas</a> <a href="../../municipios#top_zm_casos2">metropolitanas</a> <a href="../../municipios#top_zm_casos3">también</a> han sido afectadas</p>
             </p>
               
